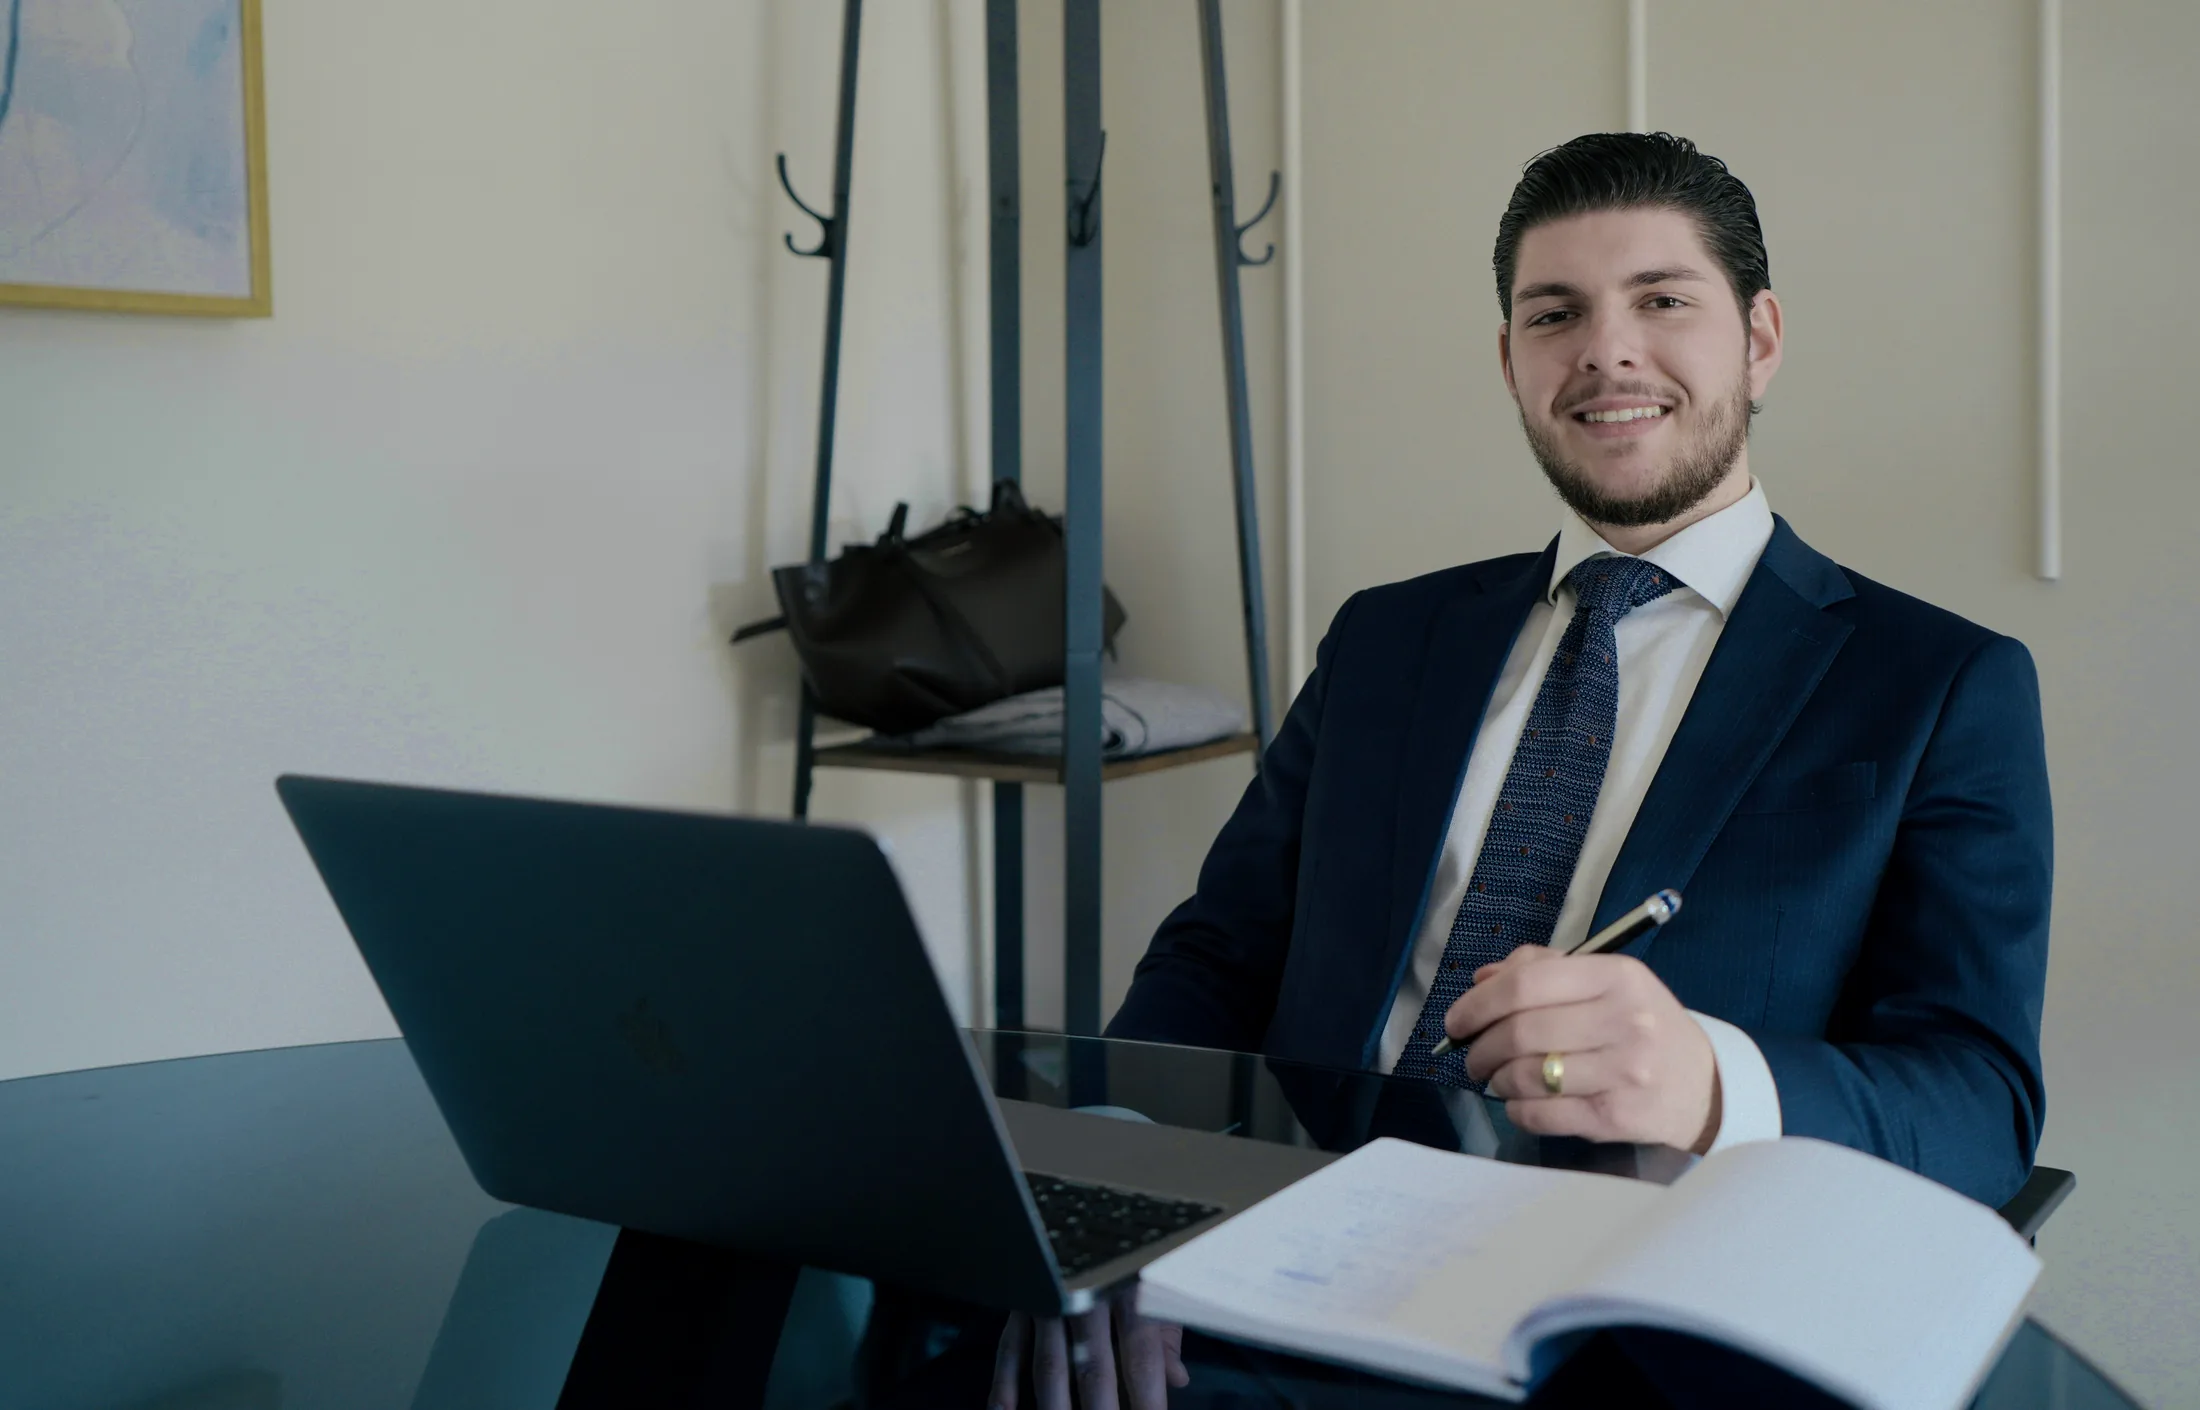
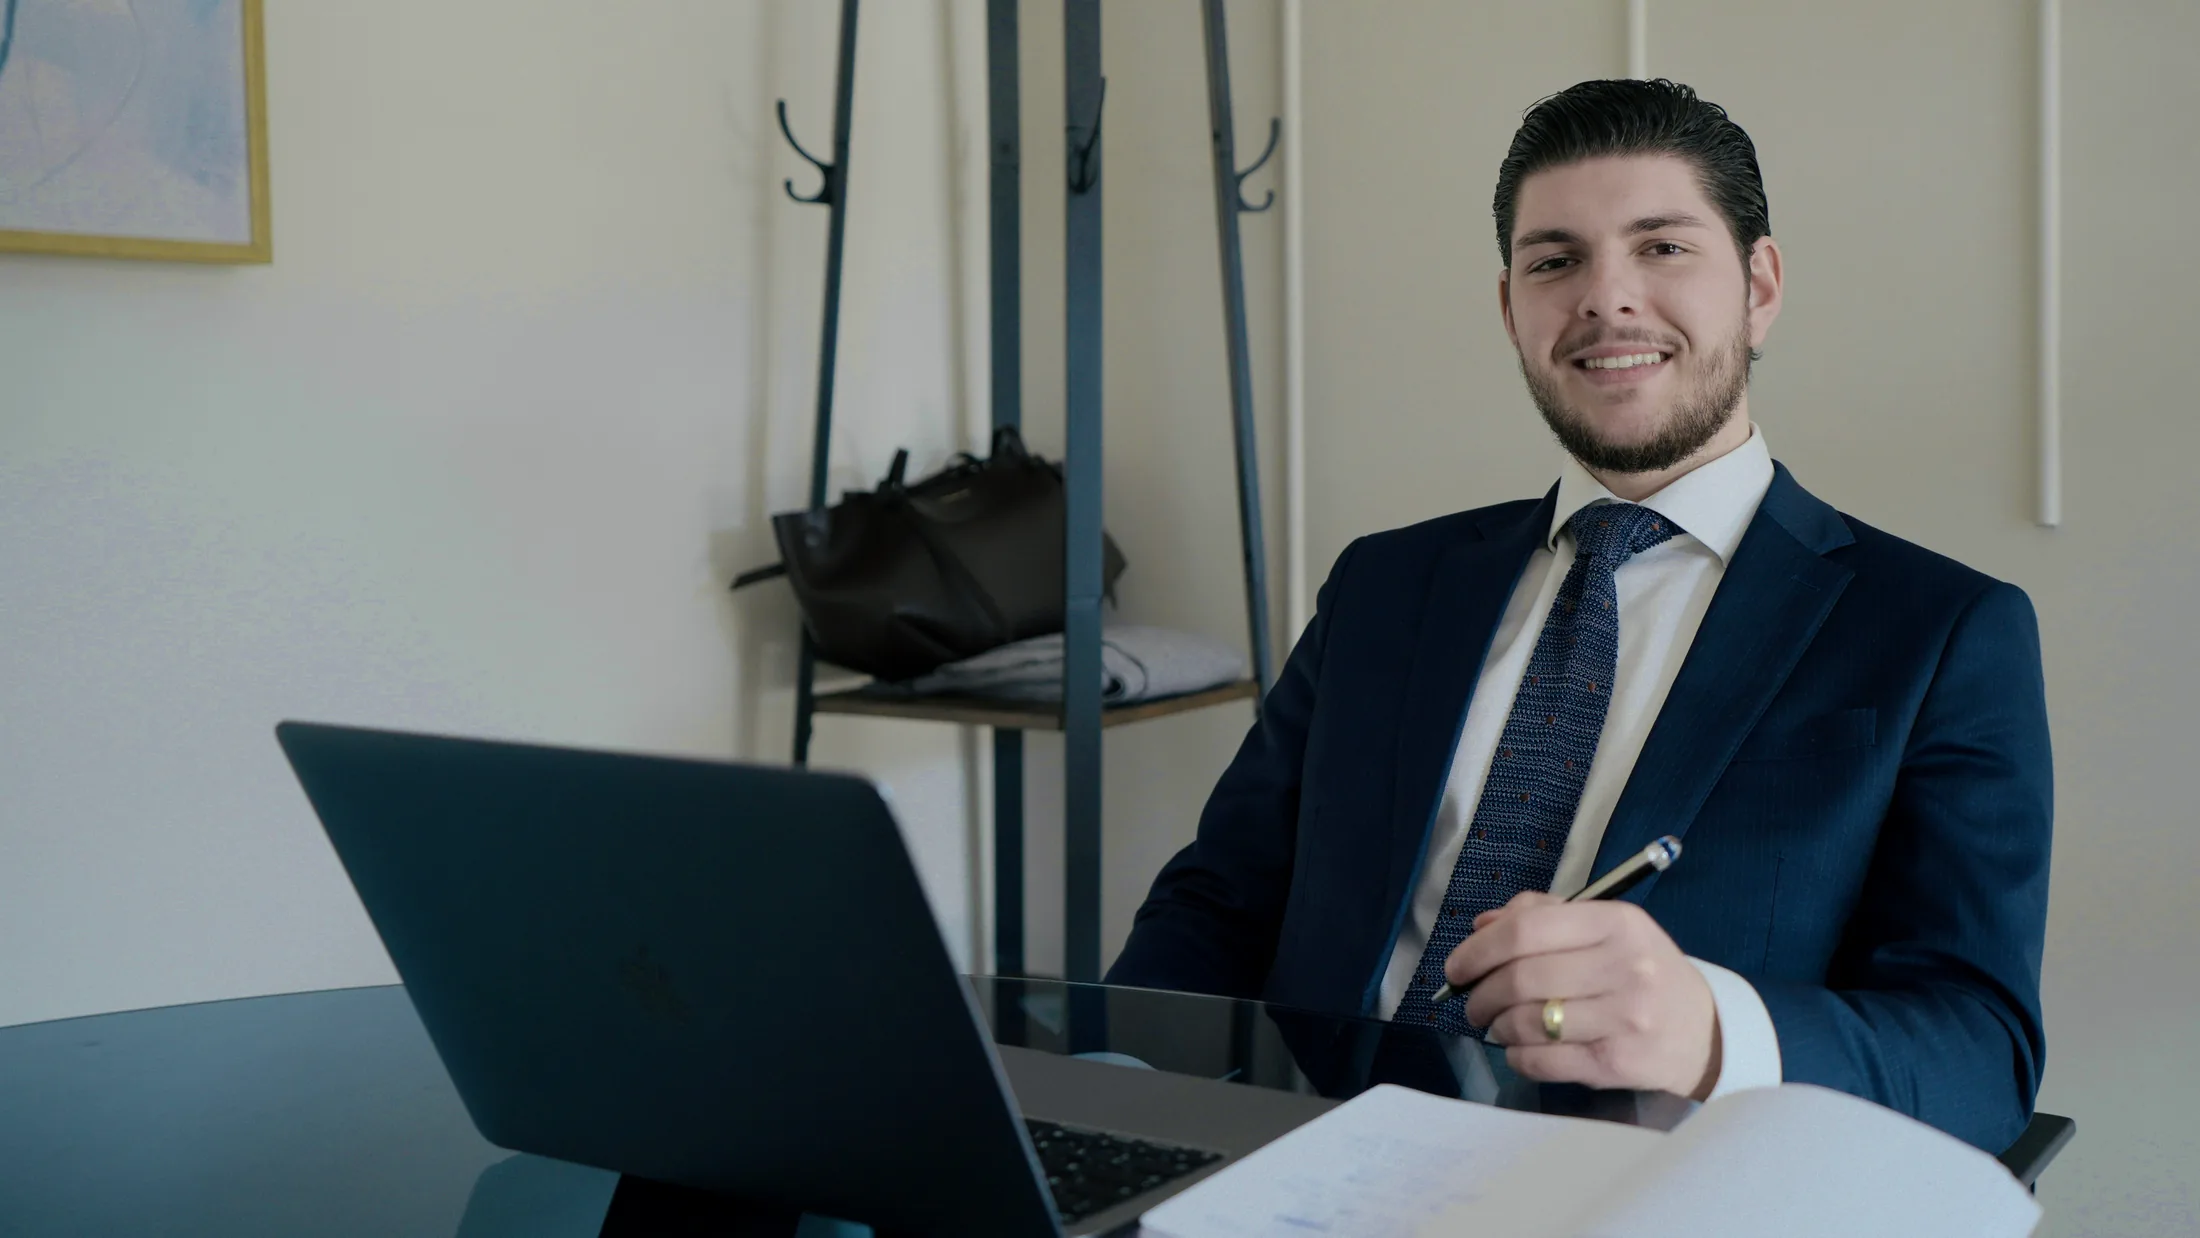
Hero-Ausschnitt exakt nach Kundenvorlage, nichts wird mehr beschnitten
Die Crop-Werte stammen jetzt aus einem Bildabgleich zwischen der
Originalaufnahme und der vom Kunden gelieferten Vorlage, statt geschätzt
zu sein — der Ausschnitt entspricht damit 1:1 seinem Entwurf (16:9).

Die Sektion übernimmt dieses Verhältnis ohne Deckelung auf die
Bildschirmhöhe. Jede feste Höhe hiesse, dass object-cover die Fläche
füllt, indem es abschneidet, und je nach Fensterformat traf das Laptop,
Ärmel oder Kopf. Dafür reicht der Hero auf sehr flachen Fenstern etwas
über die Bildschirmkante hinaus.

diff --git a/app/page.tsx b/app/page.tsx
@@ -48,13 +48,13 @@ export default function Home() {
           liegt der Text über einem vertikalen Verlauf, weil links kein
           Platz für eine eigene Textspalte bleibt.
 
-          Die Höhe folgt ab lg dem Seitenverhältnis des Ausschnitts (1.56) statt
-          der Bildschirmhöhe. Sonst füllt object-cover ein hohes Fenster, indem
-          es links und rechts abschneidet — dabei fielen Laptop und Buch aus
-          dem Bild. Die Deckelung auf die Bildschirmhöhe greift umgekehrt bei
-          flachen Fenstern: dort wird oben und unten etwas Wand und Tischkante
-          beschnitten, seitlich aber nie. */}
-      <section className="relative isolate flex w-full items-start overflow-hidden bg-ink text-fg max-lg:min-h-[calc(100svh-4rem)] lg:aspect-[1.56] lg:max-h-[calc(100svh-4rem)]">
+          Die Höhe folgt ab lg dem Seitenverhältnis des Ausschnitts (16:9)
+          statt der Bildschirmhöhe. Eine feste Höhe hiesse, dass object-cover
+          die Fläche füllt, indem es abschneidet — je nach Fensterformat traf
+          das Laptop, Ärmel oder Kopf. So ist der Ausschnitt immer vollständig
+          zu sehen; auf sehr flachen Fenstern reicht der Hero dafür etwas über
+          die Bildschirmkante hinaus. */}
+      <section className="relative isolate flex w-full items-start overflow-hidden bg-ink text-fg max-lg:min-h-[calc(100svh-4rem)] lg:aspect-[16/9]">
         {/* object-position: auf Hochformat-Fenstern schneidet 16:9 so viel weg,
             dass die Person aus dem Bild fällt — dort auf sie ausrichten, ab sm
             liegt das Motiv ohnehin rechts im Bild. */}
@@ -64,7 +64,7 @@ export default function Home() {
           fill
           priority
           sizes="100vw"
-          className="-z-20 object-cover object-[76%_center] sm:object-[center_40%]"
+          className="-z-20 object-cover object-[80%_center] sm:object-center"
         />
         {/* Vertikal: trägt den Text auf schmalen Fenstern und setzt das Foto
             unter dem dunklen Header ab. */}
